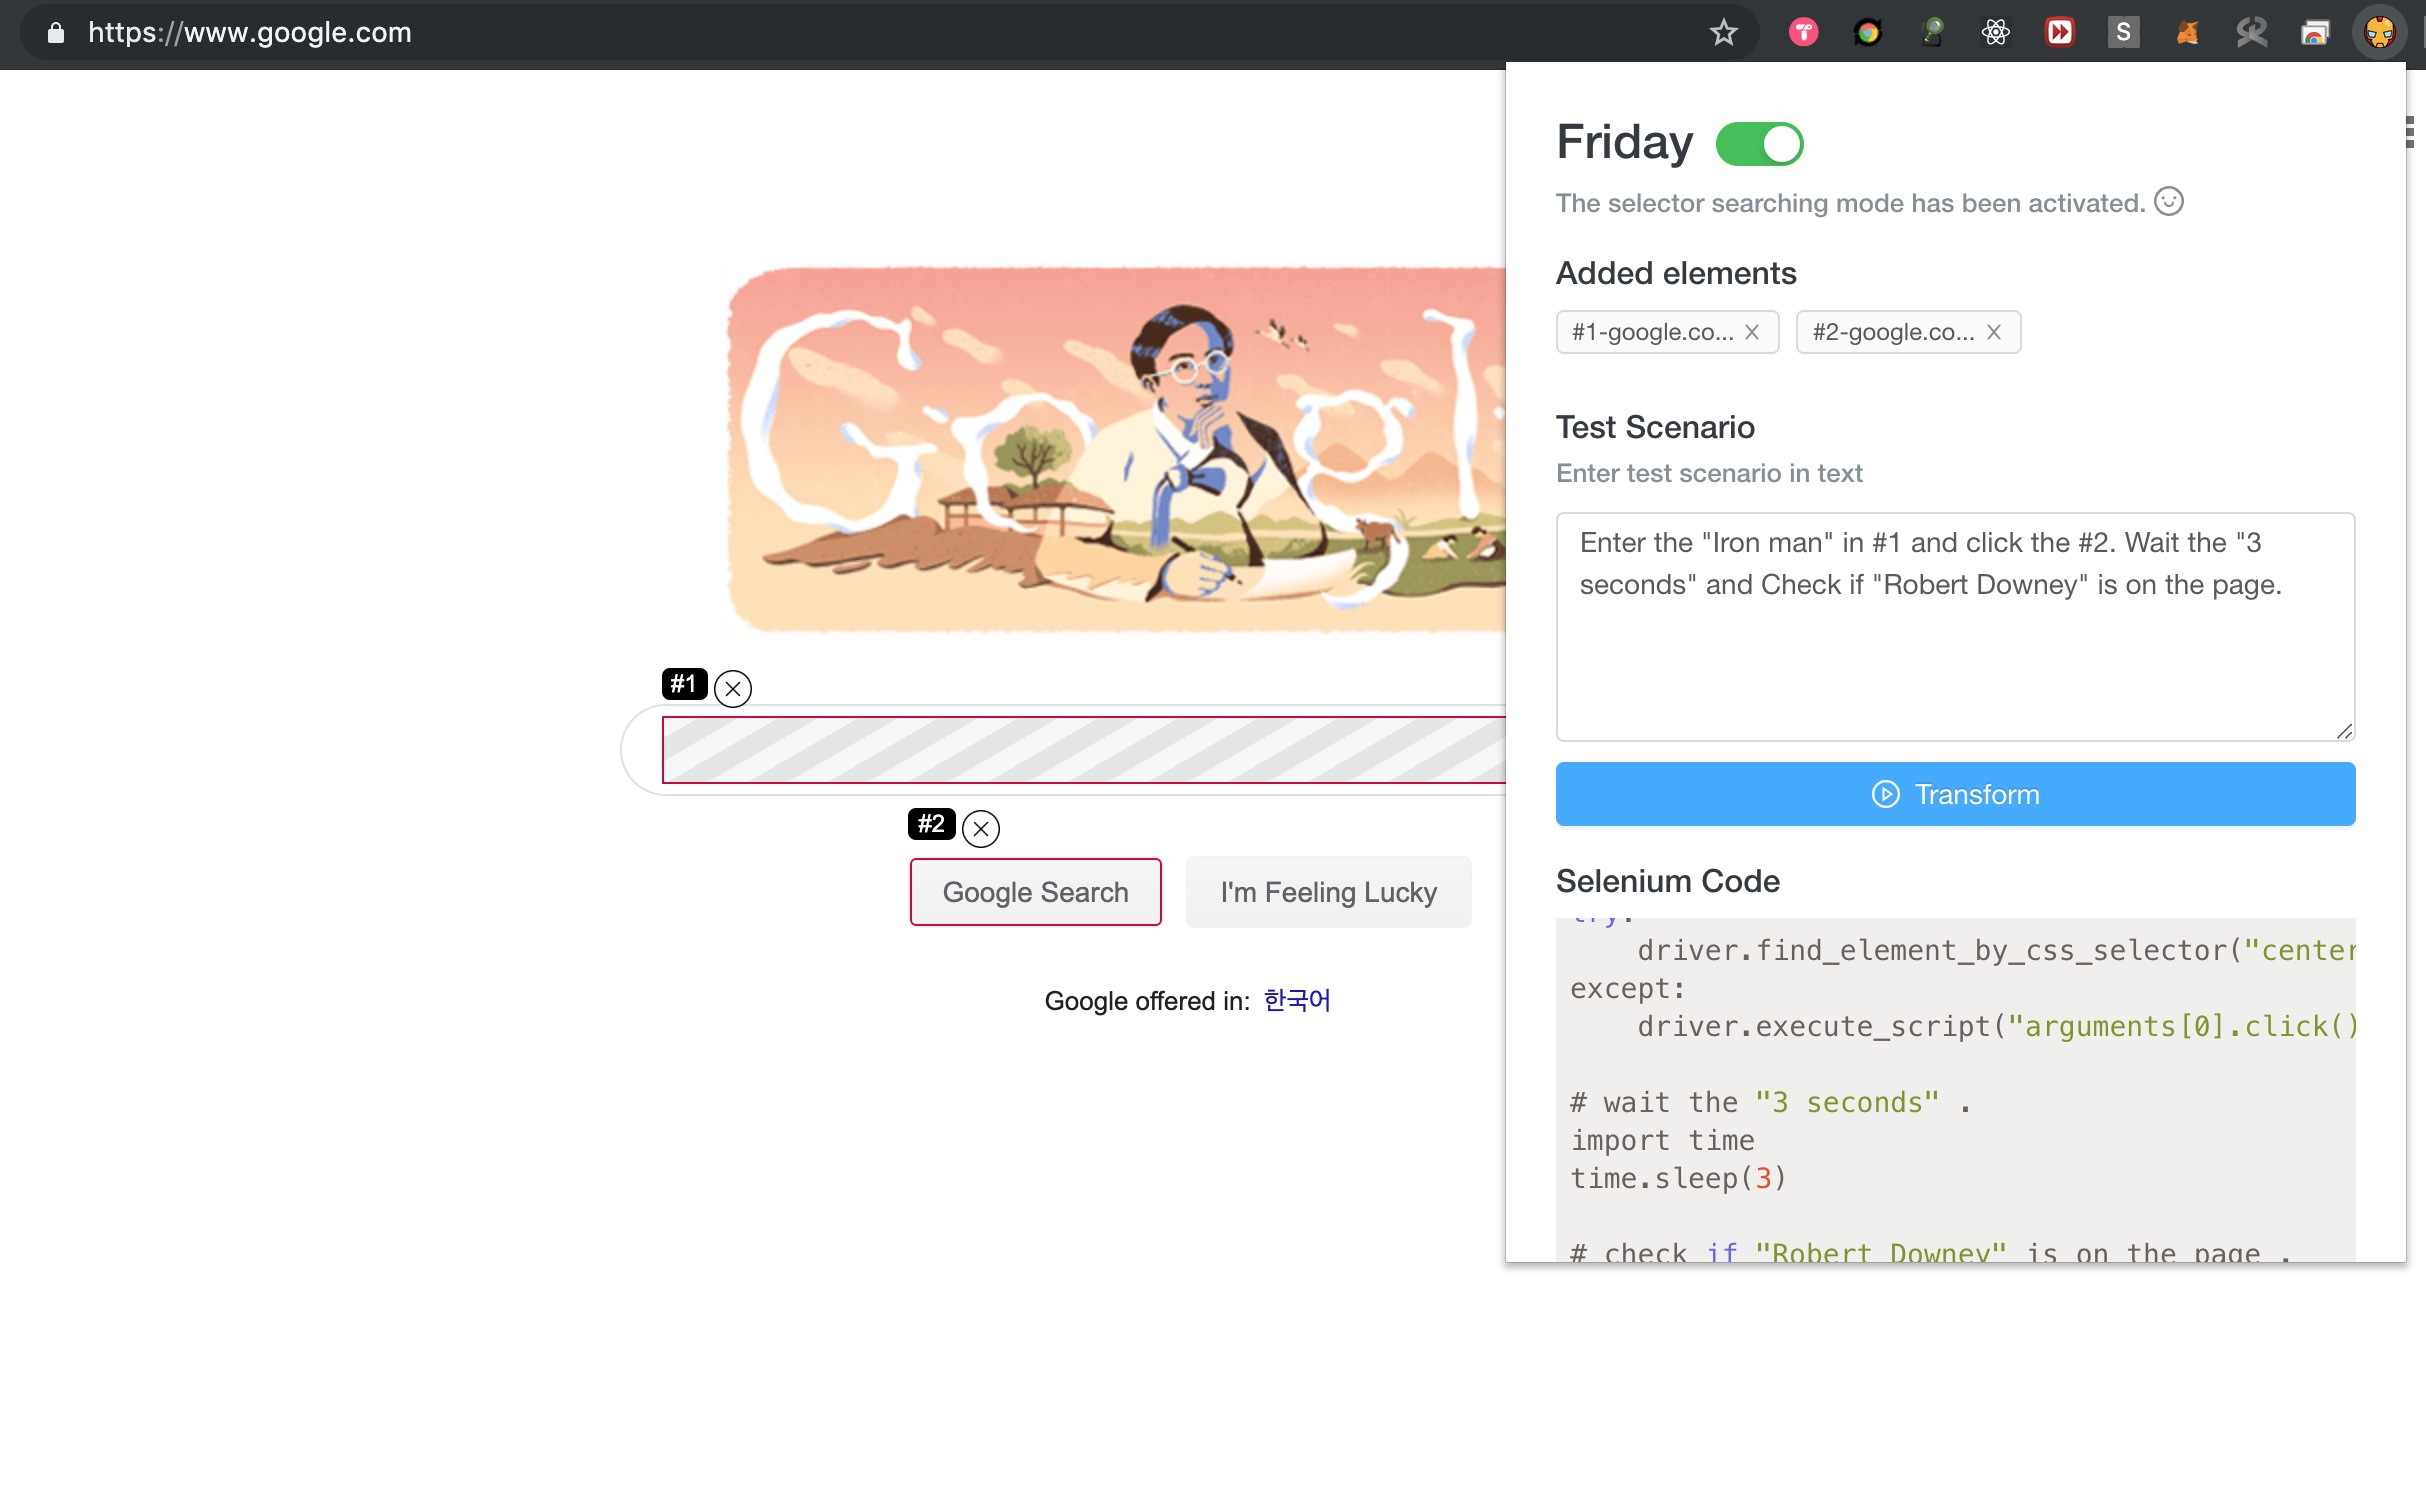
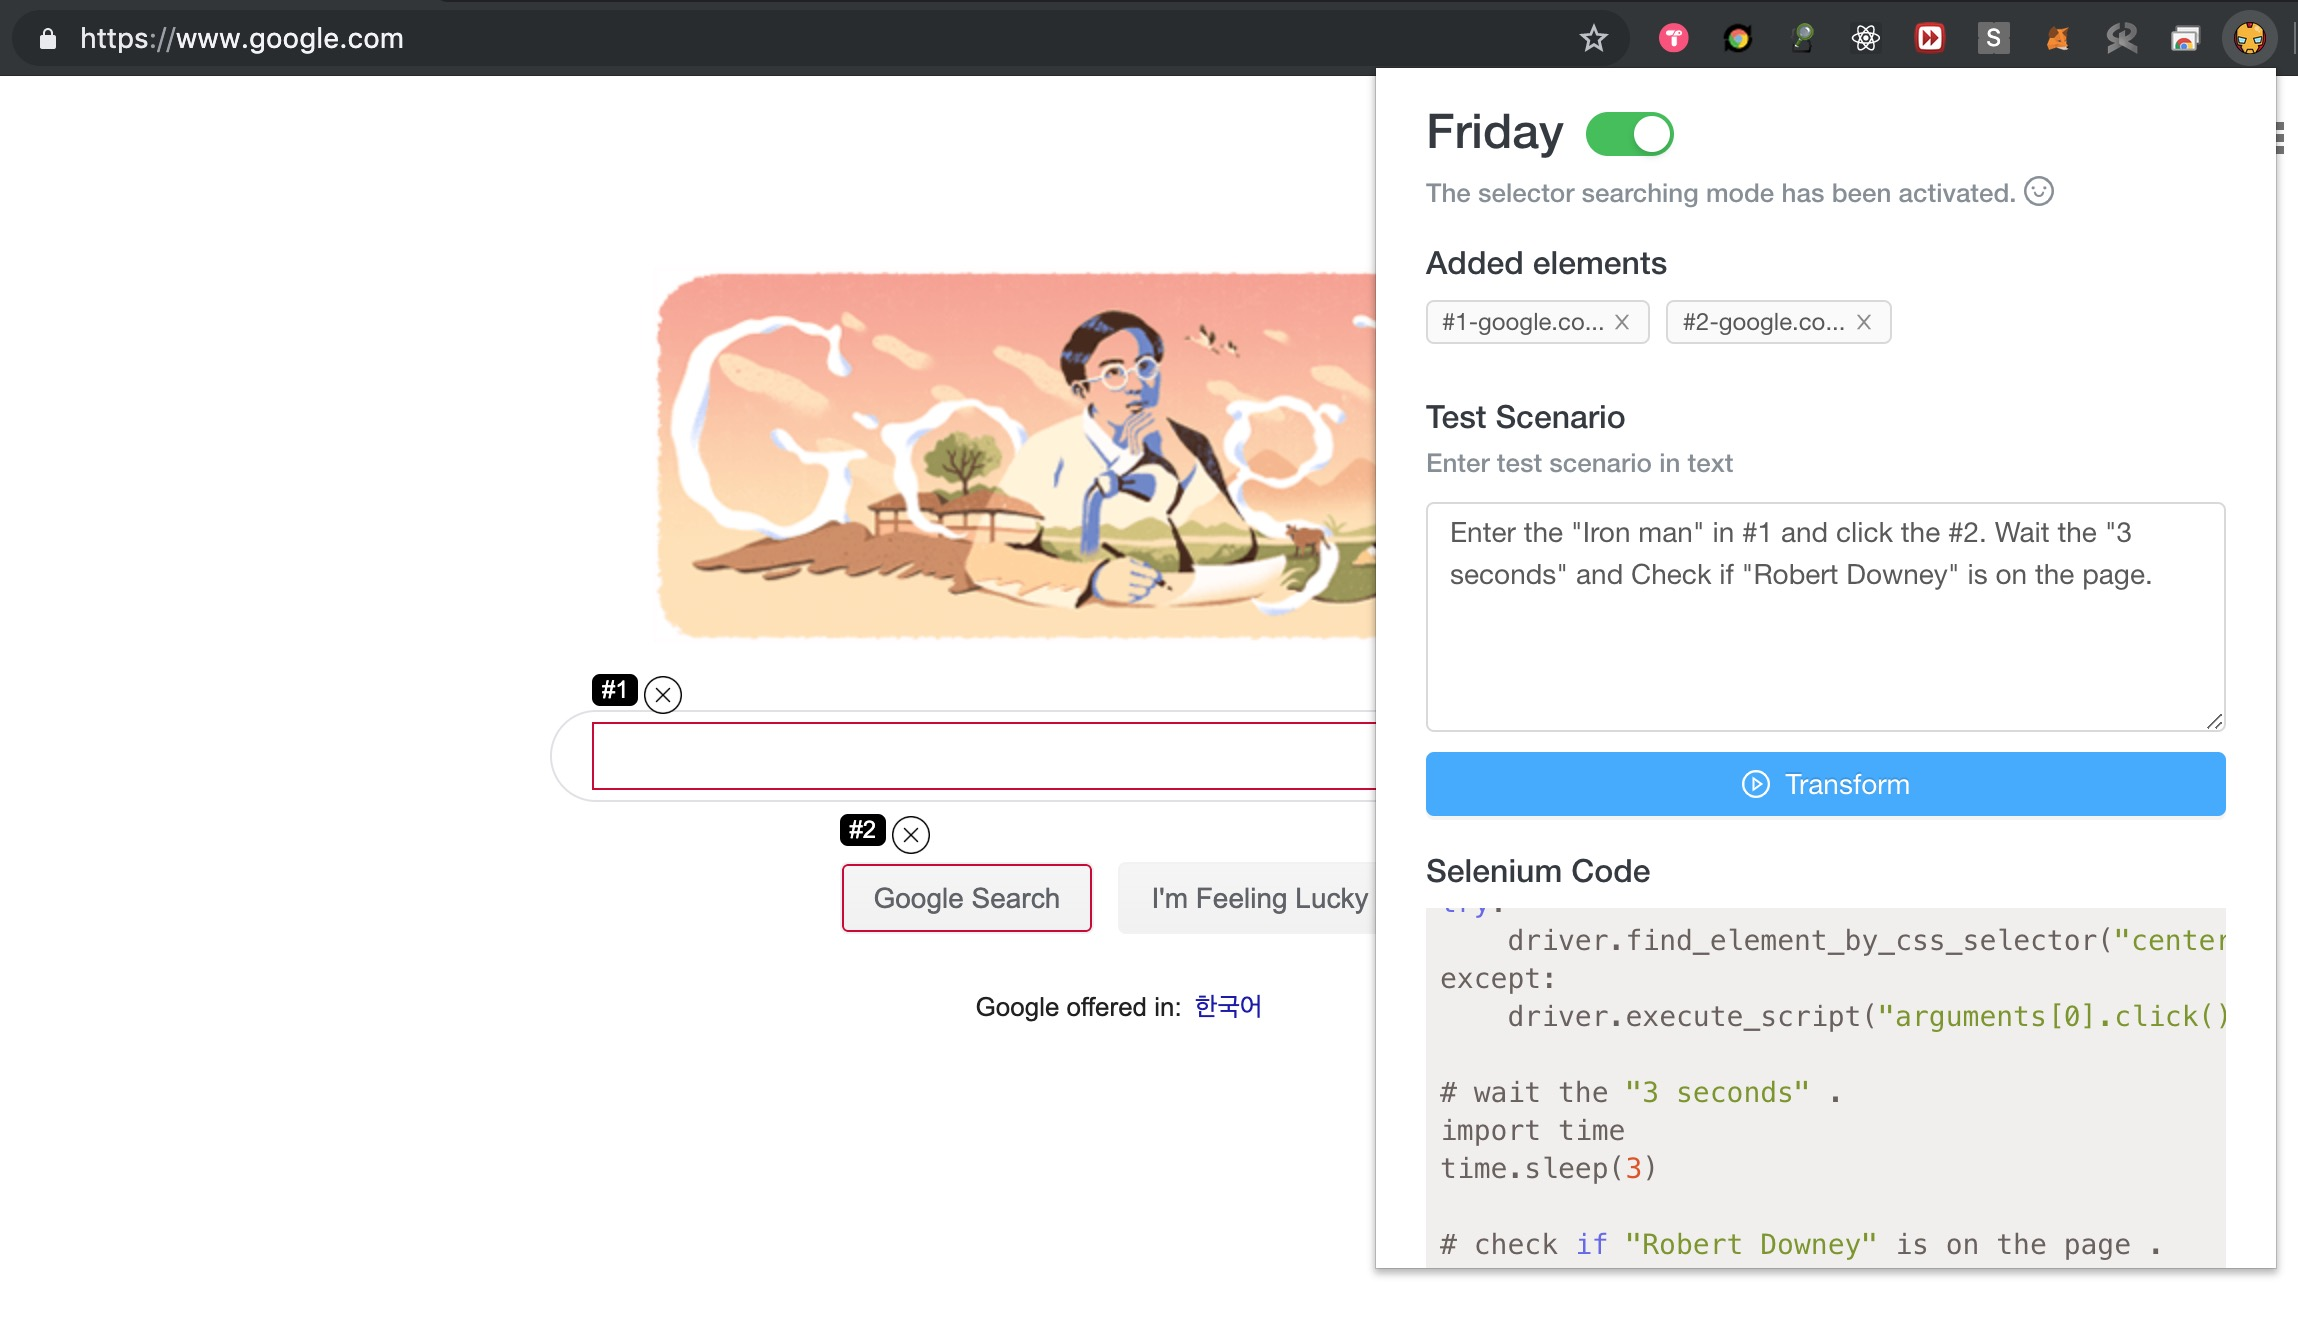
update style

Changed region(s): [[0.0, 0.0, 1.0, 0.9556], [0.6179, 0.9248, 0.9269, 0.9556], [0.4326, 0.7398, 0.5561, 0.7707]]

diff --git a/chrome_extension/chrome/extension/inject/app.js b/chrome_extension/chrome/extension/inject/app.js
@@ -127,11 +127,11 @@ export const init = (global, state) => {
 
   addStyle(`
     .fd_hover {
-      background: repeating-linear-gradient( 150deg, rgba(225, 225, 225, 0.3), rgba(229, 229, 229, 0.3) 10px, rgba(173, 173, 173, 0.3) 10px, rgba(172, 172, 172, 0.3) 20px );
-      box-shadow: inset 0px 0px 0px 1px #d7d7d7;
+      background: rgba(225, 225, 225, 0.3) !important;
+      box-shadow: inset 0px 0px 0px 1px #EEE;
     }
     .fd_copied {
-      background: repeating-linear-gradient( 150deg, rgba(225, 225, 225, 0.3), rgba(229, 229, 229, 0.3) 10px, rgba(173, 173, 173, 0.3) 10px, rgba(172, 172, 172, 0.3) 20px );
+      background: rgba(225, 225, 225, 0.3);
       box-shadow: inset 0px 0px 0px 1px #cc0035 !important;      
     }
   `);
